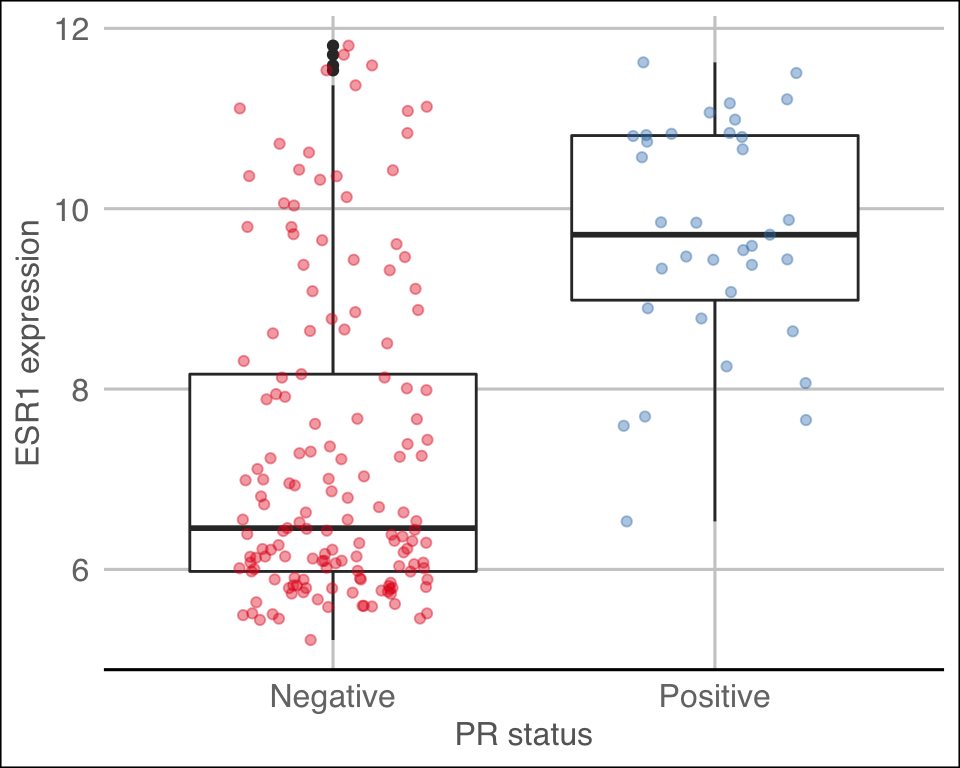
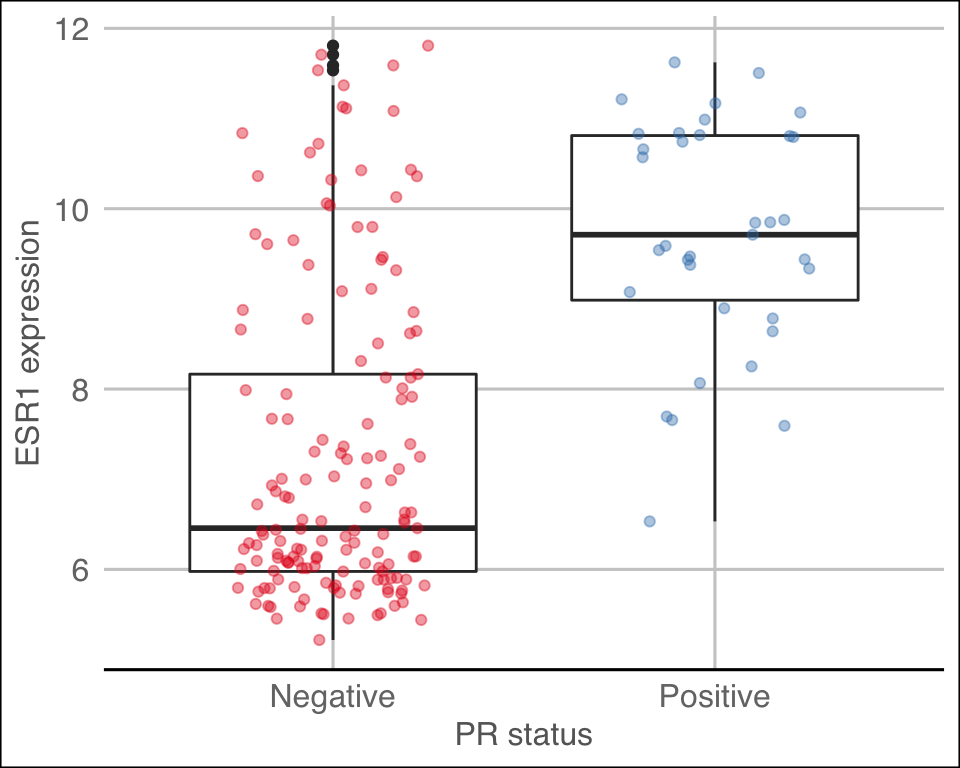
Added section on position adjustments in ggplot2.

diff --git a/docs/week6.html b/docs/week6.html
@@ -1064,6 +1064,52 @@ metabric %&gt;%
   theme_gdocs()</code></pre>
 <p><img src="week6_files/figure-html/box_plot_7-1.png" width="480" /></p>
 </div>
+<div id="position-adjustments" class="section level2">
+<h2>Position adjustments</h2>
+<p>All geoms in ggplot2 have a position adjustment that can be set using the <code>position</code> argument. This has different effects for different types of plot but essentially this resolves how overlapping geoms are displayed.</p>
+<p>For example, let’s consider the stacked bar plot we created earlier showing the numbers of patients in each of the 3-gene classifications subdivided by ER status. The default position value for <code>geom_bar()</code> is “stack” which is why the plot is shown as a stacked bar chart. An alternative way of representing these data would be to show separate bars for each ER status side-by-side by setting <code>position = &quot;dodge&quot;</code>.</p>
+<pre class="r"><code>ggplot(data = metabric) +
+  geom_bar(mapping = aes(x = `3-gene_classifier`, fill = ER_status), position = &quot;dodge&quot;) +
+  scale_y_continuous(limits = c(0, 700), breaks = seq(0, 700, 100), expand = expand_scale(mult = 0)) +
+  scale_fill_manual(values = c(&quot;firebrick2&quot;, &quot;dodgerblue2&quot;)) +
+  labs(x = NULL, y = &quot;samples&quot;, fill = &quot;ER status&quot;) +
+  theme_bw() +
+  theme(
+    panel.border = element_blank(),
+    panel.grid = element_blank(),
+    axis.ticks.x = element_blank(),
+    axis.text.x = element_text(angle = 45, hjust = 1, vjust = 1),
+    axis.line.y = element_line(),
+    axis.ticks.length.y = unit(0.2, &quot;cm&quot;)
+  )</code></pre>
+<p><img src="week6_files/figure-html/bar_plot_2-1.png" width="672" /></p>
+<p>Another position adjustment we’ve come across is <code>geom_jitter()</code>, which is just a convenient shortcut for <code>geom_point(position = &quot;jitter&quot;)</code>. A variation on this, <code>position_jitterdodge()</code>, comes in handy when we are overlaying points on top of a box plot. We show an example of just such a plot in which first use <code>postion = &quot;jitter&quot;</code>.</p>
+<pre class="r"><code>metabric %&gt;%
+  ggplot(mapping = aes(x = `3-gene_classifier`, y = ESR1, colour = PR_status)) +
+  geom_boxplot() +
+  geom_point(position = &quot;jitter&quot;, size = 0.5, alpha = 0.3) +
+  labs(x = &quot;3-gene classification&quot;, y = &quot;ESR1 expression&quot;, colour = &quot;PR status&quot;) +
+  theme_minimal() +
+  theme(
+    panel.grid.major.x = element_blank(),
+    axis.text.x = element_text(angle = 45, hjust = 1, vjust = 1),
+    axis.ticks.x = element_blank()
+  )</code></pre>
+<p><img src="week6_files/figure-html/box_plot_8-1.png" width="672" /></p>
+<p>The PR-negative and PR-positive points have distinct colours but are overlapping in a way that is aesthetically displeasing. What we want is for the points to have both jitter and to be dodged in the same way as the boxes. With <code>position_jitterdodge()</code> we get a better looking plot.</p>
+<pre class="r"><code>metabric %&gt;%
+  ggplot(mapping = aes(x = `3-gene_classifier`, y = ESR1, colour = PR_status)) +
+  geom_boxplot() +
+  geom_point(position = position_jitterdodge(), size = 0.5, alpha = 0.3) +
+  labs(x = &quot;3-gene classification&quot;, y = &quot;ESR1 expression&quot;, colour = &quot;PR status&quot;) +
+  theme_minimal() +
+  theme(
+    panel.grid.major.x = element_blank(),
+    axis.text.x = element_text(angle = 45, hjust = 1, vjust = 1),
+    axis.ticks.x = element_blank()
+  )</code></pre>
+<p><img src="week6_files/figure-html/box_plot_9-1.png" width="672" /></p>
+</div>
 </div>
 
 
